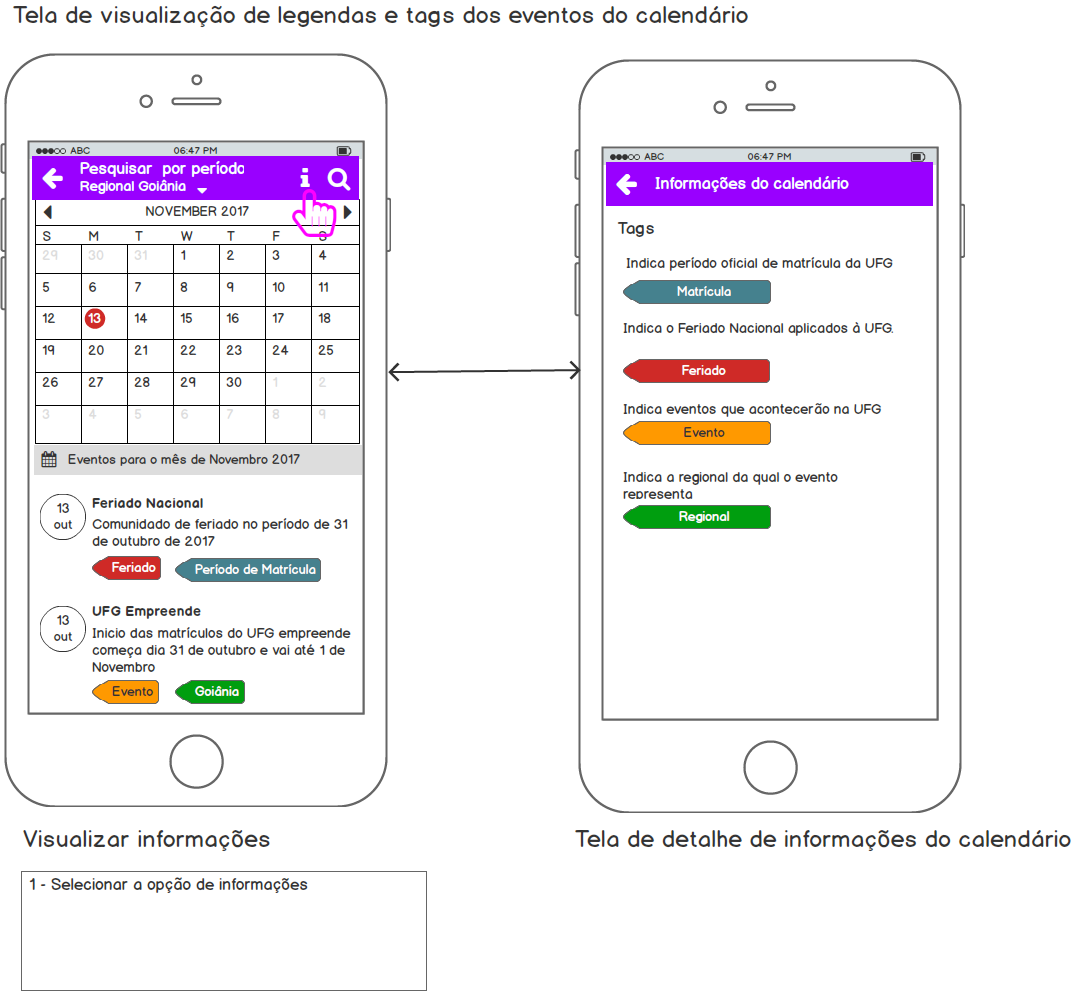
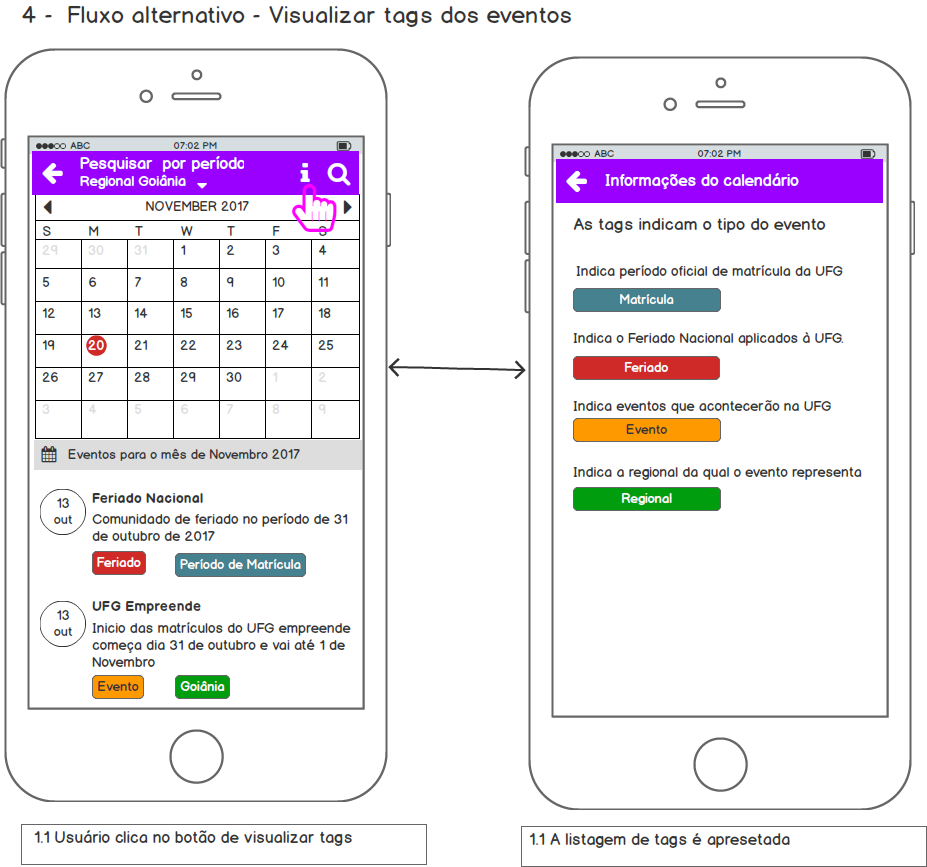
[CA]CSU06 - Update Use case [CA]CSU06 - Update prototypes

Changed region(s): [[0.0, 0.0, 0.9968, 1.0], [0.5437, 0.9031, 1.0, 1.0], [0.9364, 0.9031, 0.9666, 0.9343]]

diff --git a/Documento de Especificação de Objetivos e Requisitos (EOR).md b/Documento de Especificação de Objetivos e Requisitos (EOR).md
@@ -848,7 +848,49 @@ Tendo em vista a dificuldade de acesso aos serviços disponíveis na UFG, o apli
   <img src="https://github.com/isaiastavares/minha-ufg/blob/Calendar/assets/calendario/%5BCA%5DCSU06%20-%20Pesquisa%20de%20eventos%20do%20canled%C3%A1rio%20-%20Tela%20de%20pesquisar%20eventos%20do%20calend%C3%A1rio.png">
   <img src="https://github.com/isaiastavares/minha-ufg/blob/Calendar/assets/calendario/%5BCA%5DCSU06%20-%20Pesquisa%20de%20eventos%20do%20canled%C3%A1rio%20-%20Tela%20de%20visualizar%20eventos%20do%20calend%C3%A1rio.png">
    
-       
+
+
+**CA-CSU5**- Pesquisar eventos
+
+   * Identificador:CA-CSU5
+
+ * Atores envolvidos: Consulente
+
+ * Pré-condições:
+ * O usuário está no contexto de Eventos do calendário.
+ * O usuário clica no botão de pesquisa de eventos
+
+ * Pós-condições:
+ * O Sistema apresenta os eventos
+ * O usuário seleciona o evento que estava procurando
+
+   1. Fluxo principal - Fazer pesquisa
+      1.1 Usuário clica no botão de pesquisa
+      1.2 Usuário digita os termos da pesquisa
+      1.3 Usuário seleciona enviar
+      1.4 A pesquisa é executada
+
+   2. Fluxo alternativo - Selecionar evento
+       1.1 Usuário clica em uma data em destaque do calendário
+       1.2 Os eventos da data selecionada são apresentados ao usuário
+
+   3. Fluxo alternativo - Nenhum resultado encontrado
+       1.1 Usuário clica no botão de pesquisar
+       1.2 O usuário digita o texto da pesquisa no campo de texto
+       1.3 A pesquisa é executada assim que o usuário parar de digitar
+       1.4 Nenhum resultado é encontrado
+       1.5 Uma mensagem é mostrada para o usuário dizendo que não há nenhum resultado com o termo da pesquisa
+
+   4 - Fluxo alternativo - Visualizar tags dos eventos
+       1.1 Usuário clica no botão de visualizar tags
+       1.1 A listagem de tags é apresetada
+
+   * Protótipos de tela
+
+  <img src="https://github.com/isaiastavares/minha-ufg/blob/Calendar/assets/calendario/%5BCA%5DCSU06%20-%20Pesquisa%20de%20eventos%20do%20canled%C3%A1rio%20-%20Tela%20de%20informa%C3%A7%C3%B5es%20de%20eventos%20do%20calend%C3%A1rio.png">
+  <img src="https://github.com/isaiastavares/minha-ufg/blob/Calendar/assets/calendario/%5BCA%5DCSU06%20-%20Pesquisa%20de%20eventos%20do%20canled%C3%A1rio%20-%20Tela%20de%20pesquisar%20eventos%20do%20calend%C3%A1rio.png">
+  <img src="https://github.com/isaiastavares/minha-ufg/blob/Calendar/assets/calendario/%5BCA%5DCSU06%20-%20Pesquisa%20de%20eventos%20do%20canled%C3%A1rio%20-%20Tela%20de%20visualizar%20eventos%20do%20calend%C3%A1rio.png">
+
 ## 4. Requisitos e restrições não funcionais
 -----------------------------------------
 
